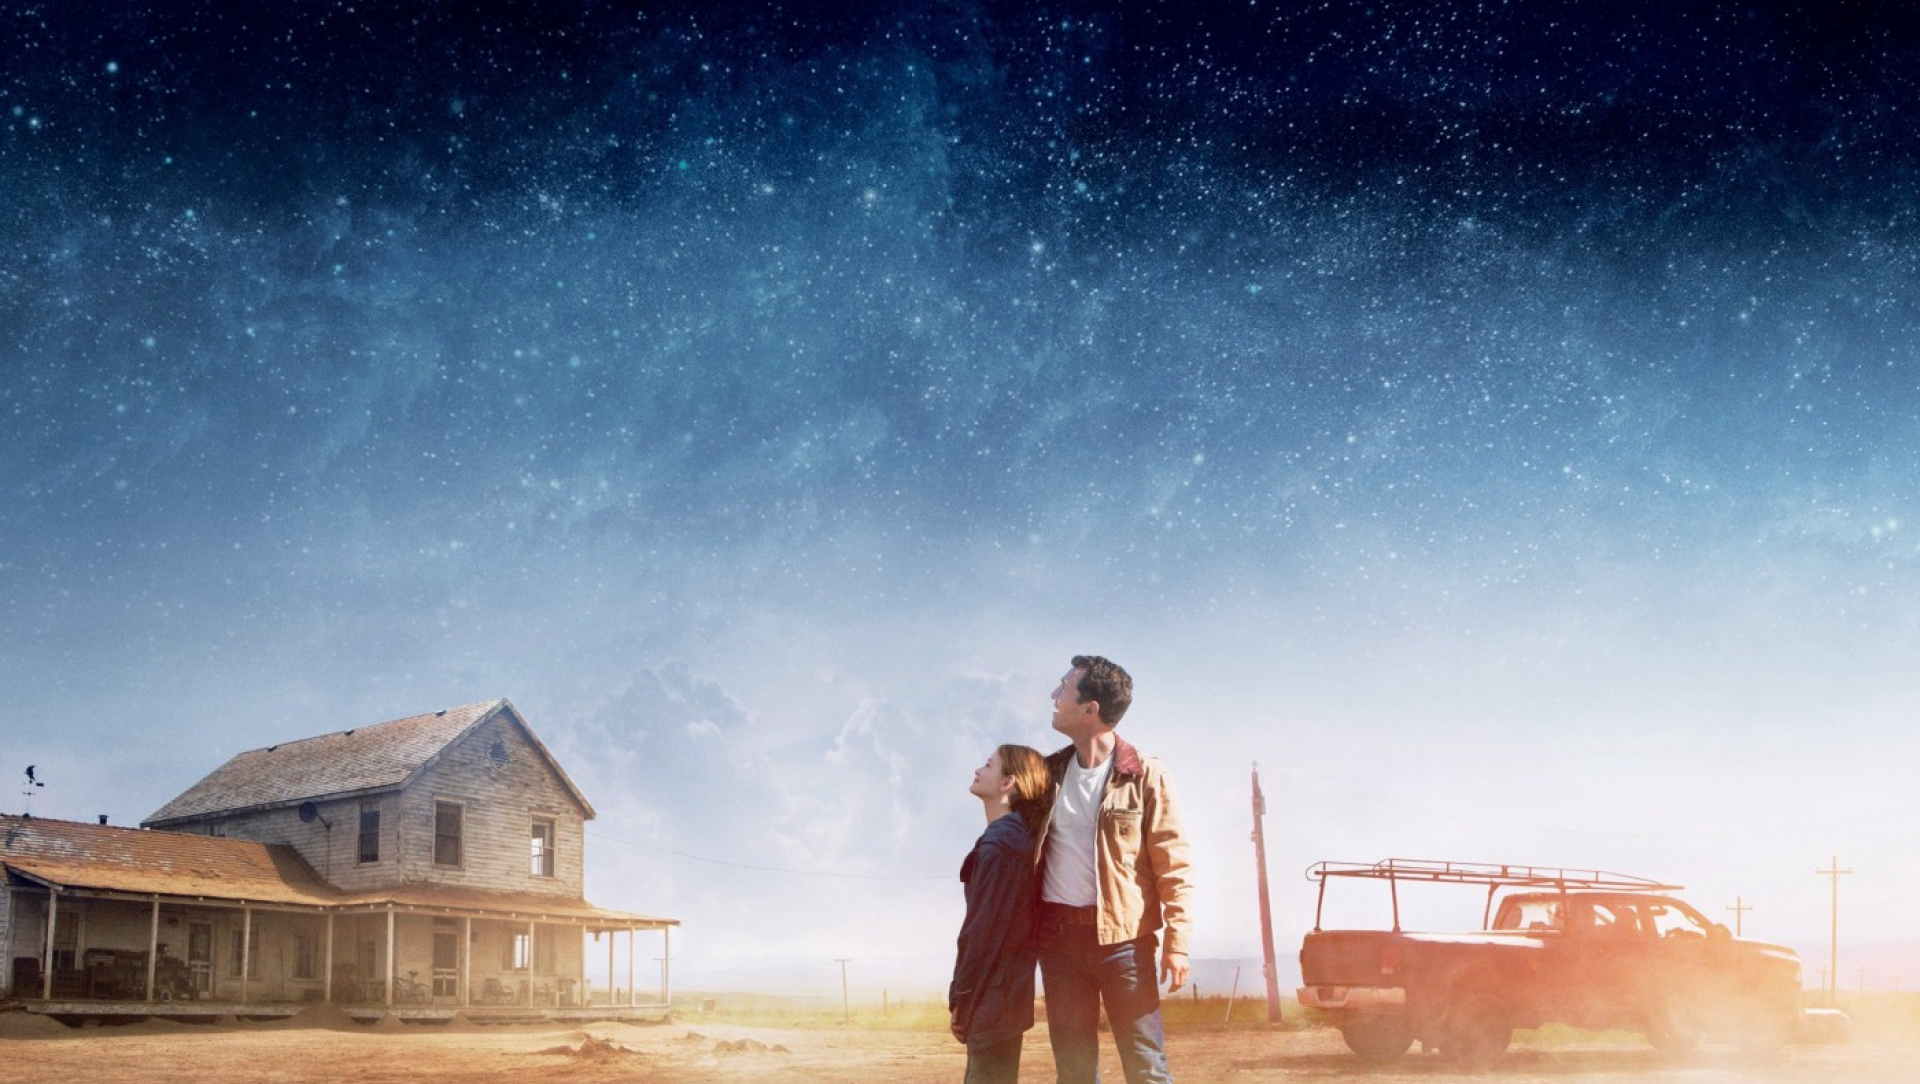
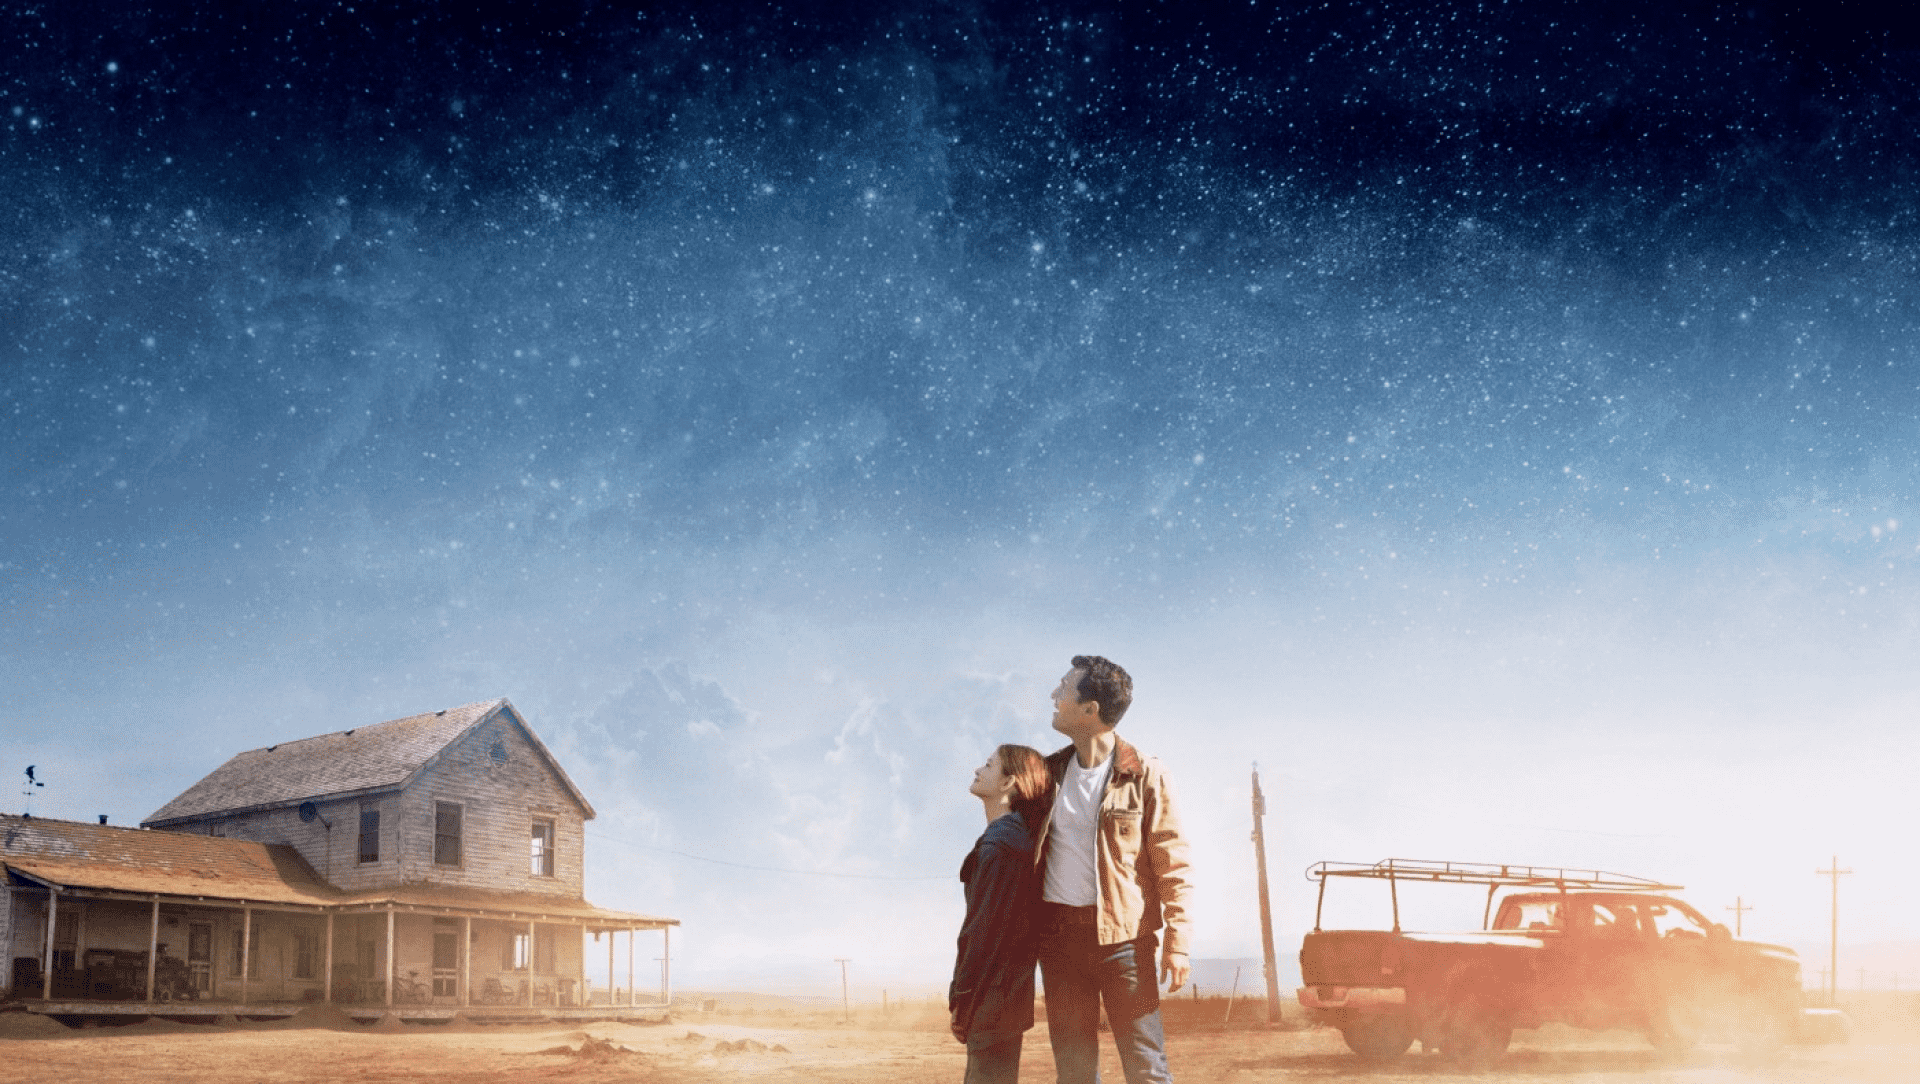
fix: reduce image size, add dynamic import for components in routes file

diff --git a/src/router/index.ts b/src/router/index.ts
@@ -1,11 +1,4 @@
-import { createRouter, createWebHistory, type RouteLocation } from "vue-router";
-import HomePage from "@/views/HomePage.vue";
-import RegisterPage from "@/views/RegisterPage.vue";
-import LoginPage from "@/views/LoginPage.vue";
-import ResetPasswordPage from "@/views/ResetPasswordPage.vue";
-import ForgotPasswordPage from "@/views/ForgotPasswordPage.vue";
-import EmailVerifiedPage from "@/views/EmailVerifiedPage.vue";
-import NewsFeedPage from "@/views/NewsFeedPage.vue";
+import { createRouter, createWebHistory } from "vue-router";
 import i18n from "@/plugins/i18n";
 import type { Locales } from "@/types/types";
 import { setLocale } from "@vee-validate/i18n";
@@ -13,10 +6,30 @@ import HandleGmailAuthPage from "@/views/HandleGmailAuthPage.vue";
 import { useUserStore } from "@/stores/user";
 import { storeToRefs } from "pinia";
 import { checkAuthState } from "@/services/axios/auth-services";
-import ProfilePage from "@/views/ProfilePage.vue";
-import MoviesPage from "@/views/MoviesPage.vue";
-import MoviePage from "@/views/MoviePage.vue";
-import MovieContainer from "@/views/MovieContainer.vue";
+
+// import HomePage from "@/views/HomePage.vue";
+// import RegisterPage from "@/views/RegisterPage.vue";
+// import LoginPage from "@/views/LoginPage.vue";
+// import ResetPasswordPage from "@/views/ResetPasswordPage.vue";
+// import ForgotPasswordPage from "@/views/ForgotPasswordPage.vue";
+// import EmailVerifiedPage from "@/views/EmailVerifiedPage.vue";
+// import NewsFeedPage from "@/views/NewsFeedPage.vue";
+// import ProfilePage from "@/views/ProfilePage.vue";
+// import MoviesPage from "@/views/MoviesPage.vue";
+// import MoviePage from "@/views/MoviePage.vue";
+// import MovieContainer from "@/views/MovieContainer.vue";
+
+const HomePage = () => import("@/views/HomePage.vue");
+const RegisterPage = () => import("@/views/RegisterPage.vue");
+const LoginPage = () => import("@/views/LoginPage.vue");
+const ResetPasswordPage = () => import("@/views/ResetPasswordPage.vue");
+const ForgotPasswordPage = () => import("@/views/ForgotPasswordPage.vue");
+const EmailVerifiedPage = () => import("@/views/EmailVerifiedPage.vue");
+const NewsFeedPage = () => import("@/views/NewsFeedPage.vue");
+const ProfilePage = () => import("@/views/ProfilePage.vue");
+const MoviesPage = () => import("@/views/MoviesPage.vue");
+const MoviePage = () => import("@/views/MoviePage.vue");
+const MovieContainer = () => import("@/views/MovieContainer.vue");
 
 const { locale } = i18n.global;
 
@@ -115,10 +128,10 @@ const router = createRouter({
       path: "/movies/",
       name: "movies",
       // beforeEnter: [loadMovies],
-      redirect: to => {
+      redirect: (to) => {
         // the function receives the target route as the argument
         // we return a redirect path/location here.
-        return { name: 'movies-all', params: { lang: to.params.lang } }
+        return { name: "movies-all", params: { lang: to.params.lang } };
       },
       component: MovieContainer,
       meta: {

diff --git a/src/components/shared/HeaderAuth.vue b/src/components/shared/HeaderAuth.vue
@@ -8,7 +8,6 @@ import { onClickOutside } from "@vueuse/core";
 import i18n from "@/plugins/i18n";
 import { useRoute } from "vue-router";
 import { useUserStore } from "@/stores/user";
-import type { CompoundSearchResults } from "@/types/types";
 import HeaderAuthNavigation from "@/components/shared/HeaderAuthNavigation.vue";
 import HeaderAuthLangAndLogout from "@/components/shared/HeaderAuthLangAndLogout.vue";
 import { storeToRefs } from "pinia";
@@ -22,13 +21,12 @@ import {
 } from "@/services/axios/quote-services";
 import { useFetchQuotes } from "@/composables/useFetchQuotes";
 import { useQuotesStore } from "@/stores/quotes";
-import NewsFeedQuote from "@/components/news-feed/NewFeedQuote.vue";
 
 const { locale } = i18n.global;
 const route = useRoute();
 const user = useUserStore();
 const { auth_user_data } = storeToRefs(user);
-const { fetch, loading, fetchSearchedQuotes } = useFetchQuotes();
+const { fetchSearchedQuotes } = useFetchQuotes();
 const quoteStore = useQuotesStore();
 const { quotes } = storeToRefs(quoteStore);
 
@@ -36,7 +34,6 @@ const isBurgerMenuVisible = ref<boolean>(false);
 const isSearchVisible = ref<boolean>(false);
 const isNotificationModalVisible = ref<boolean>(false);
 const tempIsNotificationModalVisible = ref<boolean>(false);
-const results = ref<CompoundSearchResults | null>(null);
 
 const burgerRef = ref(null);
 const notificationModalRef = ref(null);
